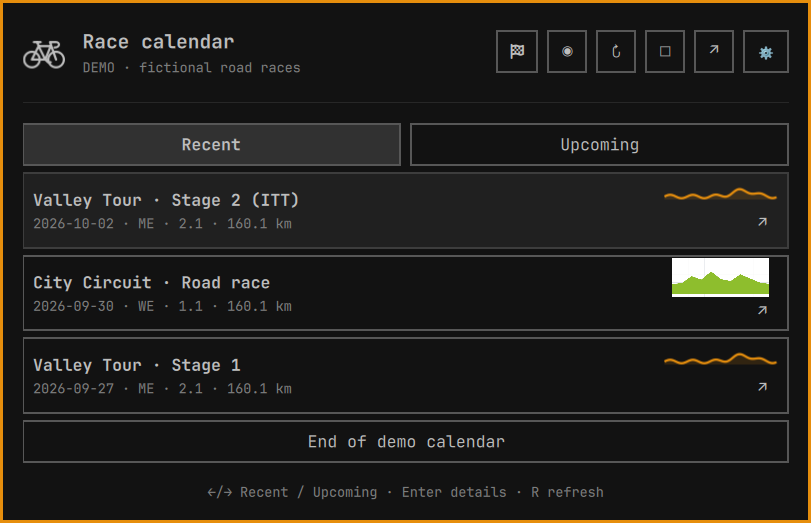
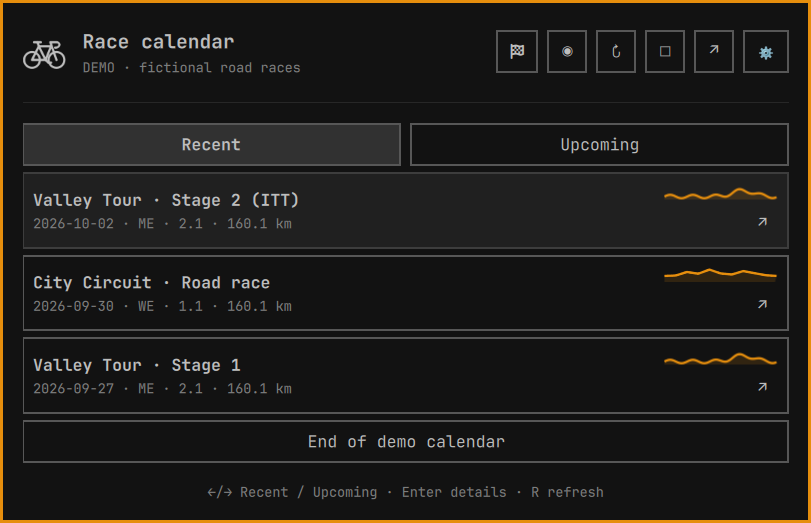
fix: trace complete profiles on scaled displays

Changed region(s): [[0.8015, 0.4895, 0.9556, 0.6119], [0.0308, 0.0918, 0.0925, 0.1224]]

diff --git a/Profile.qml b/Profile.qml
@@ -24,7 +24,9 @@ Canvas {
     onTracedPointsChanged: requestPaint()
     Canvas {
         id:raster
-        width:480;height:240;visible:false
+        // Canvas pixel reads use physical pixels, including fractional display scaling.
+        readonly property real pixelRatio:root.Window.window ? root.Window.window.devicePixelRatio : 1
+        width:480/pixelRatio;height:240/pixelRatio;visible:false
         contextType:"2d"
         property string pendingSource:""
         function trace() {
@@ -32,7 +34,7 @@ Canvas {
             var source=root.imageSource
             var c=getContext("2d")
             c.reset();c.drawImage(source,0,0,width,height)
-            root.tracedPoints=Trace.remember(source,Trace.outline(c.getImageData(0,0,width,height).data,width,height))
+            root.tracedPoints=Trace.remember(source,Trace.outline(c.getImageData(0,0,480,240).data,480,240))
             c.reset();unloadImage(source);pendingSource=""
         }
         onImageLoaded:trace()

diff --git a/tests/qml/tst_profile.qml b/tests/qml/tst_profile.qml
@@ -24,6 +24,8 @@ TestCase {
         tryVerify(function(){return fixture.length>0},3000)
         tryVerify(function(){return chart.hasCurve},5000)
         verify(chart.tracedPoints.length>100)
+        var peak=chart.tracedPoints.reduce(function(a,b){return b[1]<a[1] ? b : a})
+        verify(peak[0]>68 && peak[0]<77,"The full image must be read at fractional display scales")
         compare(chart.tracedPoints[0][0],0)
         compare(chart.tracedPoints[chart.tracedPoints.length-1][0],100)
     }

diff --git a/demo/capture.py b/demo/capture.py
@@ -93,11 +93,12 @@ def main():
     panel_state=status(ID+'.panel')
     if status()['demo']: p.error('Demo is already active; restore it first with demo false')
     monitors=json.loads(run('hyprctl','monitors','-j'))
-    if len(monitors)!=1 or monitors[0]['transform']!=0:
-        p.error('Capture currently supports one unrotated monitor')
+    monitor=next((m for m in monitors if m['name']==panel_state['geometry']['screen']),None)
+    if not monitor or monitor['transform']!=0 or not monitor.get('focused'):
+        p.error('Focus the unrotated monitor containing the plugin before capturing')
     if any(c.get('class')=='hyprlock' for c in json.loads(run('hyprctl','clients','-j'))):
         p.error('Unlock the session before capturing')
-    original_workspace=monitors[0]['activeWorkspace']['id']
+    original_workspace=monitor['activeWorkspace']['id']
     used={w['id'] for w in json.loads(run('hyprctl','workspaces','-j'))}
     workspace=next(i for i in range(90,110) if i not in used)
     runtime=Path(os.environ.get('XDG_RUNTIME_DIR','/tmp'))
@@ -143,7 +144,7 @@ def main():
         # Wait only for the native panel fade-in after readiness is established.
         time.sleep(.6)
         if not status(ID+'.panel')['demo']: raise RuntimeError('Refusing to capture non-demo data')
-        mon=monitors[0]
+        mon=next(m for m in monitors if m['name']==geometry['screen'])
         x,y=round(geometry['x']+mon['x']),round(geometry['y']+mon['y'])
         if args.window:
             client=dashboard_windows()[0]

diff --git a/docs/validation.md b/docs/validation.md
@@ -1,5 +1,20 @@
 # Validation
 
+## 0.10.1 inline image profiles — 2026-10-05
+
+- `PCS_REQUIRE_QT=1 tests/run`: 142 behavioral tests (72 Python, 41 JavaScript,
+  29 Qt cases), plus the two profile cases repeated at 150% scaling. Manifest
+  validation and QML parsing passed.
+- Native Langkawi Stage 8 image rendered as a compact theme-coloured curve,
+  retaining 188.3 km, winner time, average speed and 108 GC rows. The check
+  exposed and fixed physical-pixel reads on fractionally scaled Wayland windows.
+- Fictional daily/calendar lists and finished-race profile screenshots captured
+  and inspected. Capture supports the focused, unrotated plugin monitor while
+  preserving other monitors and restoring the original workspace and view.
+- Native PCS coordinates take precedence. Image-only profiles use a bounded
+  visual outline approximation, falling back to the source image when tracing
+  is unreliable. No actual elevation measurements are inferred from pixels.
+
 ## 0.10.0 elevation profiles — 2026-10-05
 
 - `PCS_REQUIRE_QT=1 tests/run`: 134 behavioral tests (71 Python, 37 JavaScript,
